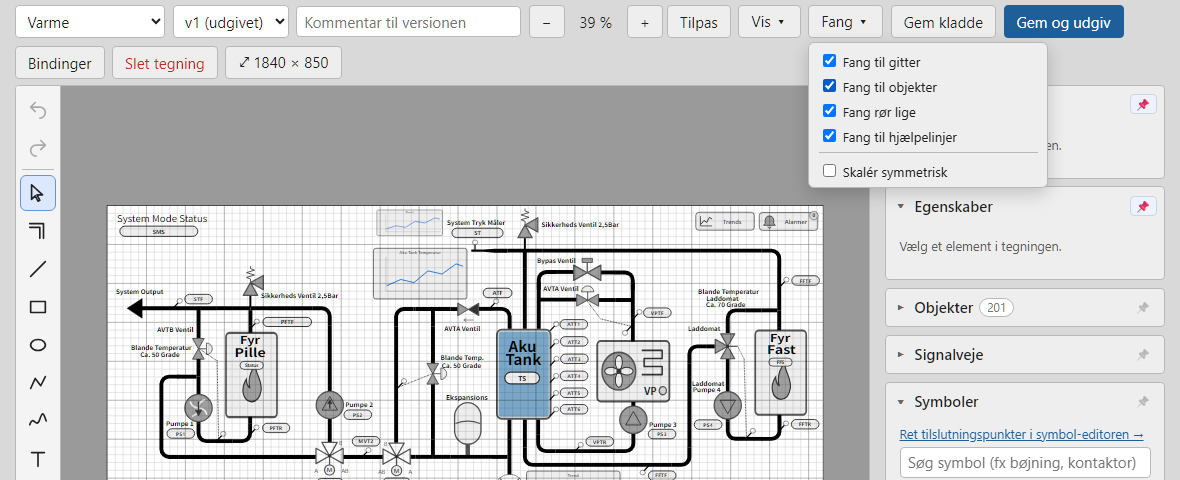
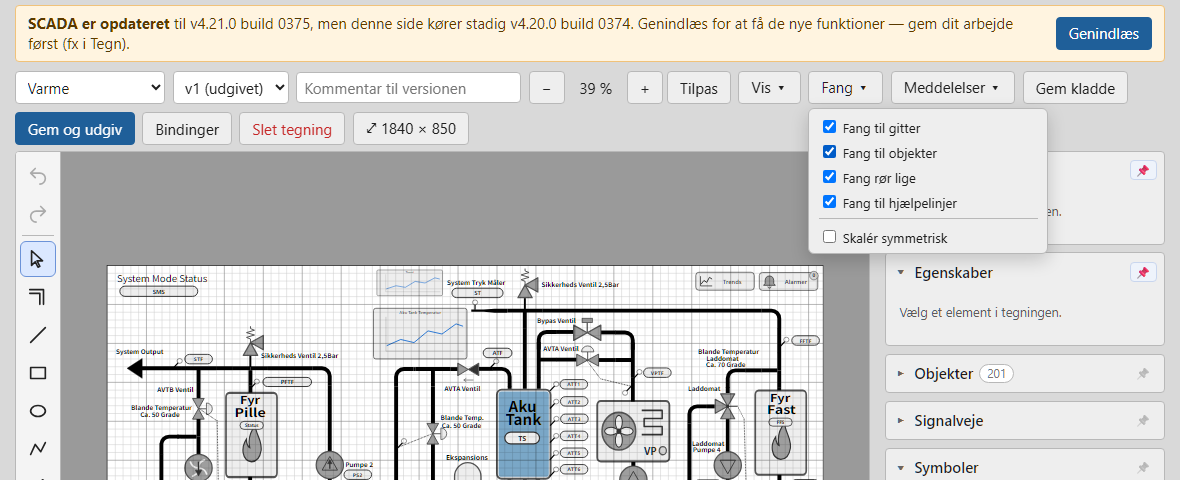
v4.21.0-b0375: Tegn — systemets meddelelser i en boks (Meddelelser i øverste linje) i stedet for gul bjælke

diff --git a/frontend/src/pages/DrawEditor.svelte b/frontend/src/pages/DrawEditor.svelte
@@ -1,5 +1,5 @@
 <script lang="ts">
-  import { onDestroy, onMount } from 'svelte';
+  import { onDestroy, onMount, untrack } from 'svelte';
   import { ask as askUser, askText } from '../lib/ask';
   import { suggestName } from '../lib/draw/naming';
   import { del, get, patch, post, put } from '../lib/api';
@@ -997,6 +997,30 @@
 
   const single = $derived(selection.length === 1 ? selection[0] : null);
   const isActive = $derived(current !== null && loadedVersion === current.active_version);
+  // Meddelelser (v4.20.1): systemets beskeder (før en gul bjælke over tegningen) samles her og vises i en boks, når man trykker på
+  // *Meddelelser* i den øverste linje — som alarmklokken i topmenuen. Nye beskeder gør knappen orange; advarsler åbner boksen.
+  interface Msg { id: number; at: number; text: string; extra: string[]; warn: boolean }
+  let messages = $state<Msg[]>([]);
+  let unread = $state(0);
+  let msgOpen = $state(false);
+  let msgSeq = 0;
+  $effect(() => {
+    const text = info;
+    if (!text) return;
+    untrack(() => {
+      const r = report;
+      const extra: string[] = [];
+      if (r && (Object.keys(r.removed_elements).length || Object.keys(r.removed_attributes).length)) extra.push(`Renset ved gem: ${entries(r.removed_elements)} ${entries(r.removed_attributes)}`);
+      if (r?.orphaned_bindings?.length) extra.push(`Bindinger uden element nu: ${r.orphaned_bindings.join(', ')}`);
+      const warn = !!r?.orphaned_symbols?.length;
+      if (warn) extra.push(`Symboler sat op med guiden, som ikke længere findes: ${r!.orphaned_symbols!.join(', ')} — flyt eller fjern dem under Bindinger`);
+      messages = [{ id: ++msgSeq, at: Date.now(), text, extra, warn }, ...messages].slice(0, 30);
+      unread++;
+      if (warn) msgOpen = true;
+      info = '';
+    });
+  });
+  const clock = (t: number) => new Date(t).toLocaleTimeString('da-DK', { hour: '2-digit', minute: '2-digit', second: '2-digit' });
   const entries = (o: Record<string, number>) => Object.entries(o).map(([k, v]) => `${k} ×${v}`).join(', ');
 </script>
 
@@ -1024,6 +1048,8 @@
   </span>
   <Menu label="Vis" title="Gitter, hjælpelinjer, navne og tjek af forbindelser">{@render viewMenu()}</Menu>
   <Menu label="Fang" title="Fang til gitter, objekter, rør og hjælpelinjer">{@render snapMenu()}</Menu>
+  <Menu label="Meddelelser" title="Systemets beskeder om tegningen (gem, rettelser, advarsler)" badge={unread + (dupNames.length ? 1 : 0)} hot={unread > 0 || dupNames.length > 0}
+        wide align="right" bind:open={msgOpen} onopen={() => (unread = 0)}>{@render messagesMenu()}</Menu>
   {#if checkConn && connSummary}
     {#if connSummary.open || connSummary.isolated}
       <span class="small" style="color:var(--warn)" title={connSummary.names.join(', ')}>{connSummary.open} åbne, {connSummary.isolated} uden forbindelse</span>
@@ -1112,6 +1138,24 @@
   </div>
 {/snippet}
 
+{#snippet messagesMenu()}
+  {#if dupNames.length}
+    <div class="msg warn">
+      Flere symboler har samme navn: {dupNames.map((d) => `"${d.name}" (${d.count})`).join(', ')} — navnene skal være unikke (de bruges fx i
+      Trends, ved kopiering af opsætning og i guiden). <button class="small" onclick={fixDuplicates} disabled={!ready}>Giv dem unikke navne</button>
+    </div>
+  {/if}
+  {#each messages as m (m.id)}
+    <div class="msg" class:warn={m.warn}>
+      <span class="small muted">{clock(m.at)}</span> {m.text}
+      {#each m.extra as x}<div class="small muted">{x}</div>{/each}
+    </div>
+  {:else}
+    {#if !dupNames.length}<span class="small muted">Ingen meddelelser endnu. Her kommer systemets beskeder, fx når tegningen er gemt eller en rettelse er udført.</span>{/if}
+  {/each}
+  {#if messages.length}<div class="mrow"><button class="small" onclick={() => (messages = [])}>Ryd meddelelser</button></div>{/if}
+{/snippet}
+
 {#snippet snapMenu()}
   <label class="opt"><input type="checkbox" bind:checked={guides.snapGrid} /> Fang til gitter</label>
   <label class="opt" title="Når du slipper et objekt, lægges det kant mod kant eller midte mod midte med nærmeste objekt, hvis det er tæt på"><input type="checkbox" bind:checked={guides.snapObjects} /> Fang til objekter</label>
@@ -1123,22 +1167,6 @@
 
 
 {#if error}<div class="error">{error}</div>{/if}
-{#if dupNames.length}
-  <div class="notice">
-    Flere symboler har samme navn: {dupNames.map((d) => `"${d.name}" (${d.count})`).join(', ')} — navnene skal være unikke (de bruges fx i
-    Trends, ved kopiering af opsætning og i guiden). <button class="small" onclick={fixDuplicates} disabled={!ready}>Giv dem unikke navne</button>
-  </div>
-{/if}
-{#if info}
-  <div class="notice">
-    {info}
-    {#if report && (Object.keys(report.removed_elements).length || Object.keys(report.removed_attributes).length)}
-      <br /><span class="small muted">Renset ved gem: {entries(report.removed_elements)} {entries(report.removed_attributes)}</span>
-    {/if}
-    {#if report?.orphaned_bindings?.length}<br />Bindinger uden element nu: {report.orphaned_bindings.join(', ')}{/if}{#if report?.orphaned_symbols?.length}<br /><strong>Symboler sat op med guiden, som ikke længere findes:</strong> {report.orphaned_symbols.join(', ')} — flyt eller fjern dem under Bindinger{/if}
-  </div>
-{/if}
-
 <div class="layout">
   <div class="frame" bind:this={frameBox}>
     <DrawCanvas height={editorHeight} dropType={SYMBOL_DRAG} ondropsymbol={(id, x, y) => ed && insert(id, ed.docPointAt(x, y))} ondropfiles={(files, x, y) => ed && insertSvgFiles(files, ed.docPointAt(x, y))} onready={(api) => attach(api as ScadaApi)} onupdate={() => inspectRev++} onzoom={(z) => (zoomLevel = z)} bind:this={canvasRef} bar={false}
@@ -1373,6 +1401,8 @@
 <style>
   .toolbar { margin-bottom: .35rem; }
   .comment { flex: 0 1 15rem; min-width: 8rem; }      /* en kommentar behøver ikke fylde linjen (v4.20.0) */
+  .msg { padding: .35rem .5rem; background: #fff8e1; border: 1px solid #e0b062; border-radius: 6px; overflow-wrap: anywhere; }
+  .msg.warn { background: #fdecea; border-color: #e57373; }
   .zoombar { display: inline-flex; align-items: center; gap: 4px; }
   .zoombar .zoom { min-width: 3.6em; text-align: center; font-variant-numeric: tabular-nums; }
   .toolbar { position: relative; z-index: 60; }

diff --git a/frontend/src/lib/draw/Menu.svelte b/frontend/src/lib/draw/Menu.svelte
@@ -2,8 +2,16 @@
   // En lille rullemenu (knap + panel) til værktøjslinjen: lukker ved klik udenfor og Esc. Bruges i Tegn (v4.20.0).
   import type { Snippet } from 'svelte';
 
-  let { label, title = '', children }: { label: string; title?: string; children: Snippet } = $props();
-  let open = $state(false);
+  let { label, title = '', badge = '', hot = false, wide = false, align = 'left', open = $bindable(false), onopen, children }: {
+    label: string; title?: string;
+    badge?: string | number;                 // et tal ved siden af navnet (fx antal nye meddelelser)
+    hot?: boolean;                           // fremhæv knappen (fx ulæste meddelelser)
+    wide?: boolean;                          // bredere panel
+    align?: 'left' | 'right';
+    open?: boolean;
+    onopen?: () => void;                     // kaldes, når menuen åbnes
+    children: Snippet;
+  } = $props();
   let root: HTMLDivElement;
 </script>
 
@@ -12,8 +20,8 @@
   onkeydown={(e) => { if (open && e.key === 'Escape') open = false; }} />
 
 <div class="dd" bind:this={root}>
-  <button onclick={() => (open = !open)} aria-expanded={open} aria-haspopup="true" {title}>{label} ▾</button>
-  {#if open}<div class="panel" role="group" aria-label={label}>{@render children()}</div>{/if}
+  <button class:hot onclick={() => { open = !open; if (open) onopen?.(); }} aria-expanded={open} aria-haspopup="true" {title}>{label}{#if badge !== '' && badge !== 0}<span class="badge">{badge}</span>{/if} ▾</button>
+  {#if open}<div class="panel" class:wide class:right={align === 'right'} role="group" aria-label={label}>{@render children()}</div>{/if}
 </div>
 
 <style>
@@ -24,6 +32,10 @@
     box-shadow: 0 6px 18px rgba(0, 0, 0, .18); padding: .5rem .65rem;
     display: flex; flex-direction: column; gap: .4rem; font-size: .88rem;
   }
+  .panel.wide { min-width: 24rem; max-width: min(44rem, 90vw); }
+  .panel.right { left: auto; right: 0; }
+  button.hot { background: #fff4e0; border-color: #ff8f00; }
+  .badge { margin-left: .35rem; background: #ff8f00; color: #fff; border-radius: 999px; padding: 0 .4rem; font-size: .72rem; font-weight: 600; }
   .panel :global(.mrow) { display: flex; align-items: center; flex-wrap: wrap; gap: .3rem .5rem; }
   .panel :global(.mhead) { font-size: .72rem; text-transform: uppercase; letter-spacing: .04em; color: var(--muted, #666); margin-top: .2rem; }
   .panel :global(.mrule) { border: 0; border-top: 1px solid var(--line); margin: .1rem 0; }

diff --git a/FEATURES.md b/FEATURES.md
@@ -5,6 +5,7 @@ Status: `planned` | `in-progress` | `done`
 
 Faseplan og detaljer: [docs/RESEARCH_OG_DESIGN.md](docs/RESEARCH_OG_DESIGN.md#4-faseplan).
 
+- [x] done v4.21.0 — **Tegn: meddelelser i en boks** (ønske fra Jan 2026-11-10). Systemets gule beskeder over tegningen (gemt, rettet, renset ved gem, advarsler) er flyttet ud i en boks, der åbner ved tryk på *Meddelelser* i den øverste linje — som alarmklokken i topmenuen. Nye beskeder giver et orange tal; advarsler åbner boksen.
 - [x] done v4.20.0 — **Tegn: samlet værktøjslinje** (ønske fra Jan 2026-11-10). Zoom og tegnehjælp flyttet op i den øverste linje; afkrydsningerne er samlet i menuerne *Vis* (gitter, hjælpelinjer, navne, tjek forbindelser) og *Fang*; kommentarfeltet er cirka en fjerdedel så bredt. Tegnefladen får linjens plads.
 - [x] done v4.19.0 — **Tegn: ret brudte forbindelser** (ønske fra Jan 2026-11-10). Knappen *Ret N forbindelser* ved *Tjek forbindelser* flytter rør-ender, der ligger klods op ad en anden ende eller et tilslutningspunkt (8–25 enheder), så de sidder sammen: tegnede rør lægges om og sættes fast; lige rør-symboler forlænges/forkortes i deres egen retning. Symboler flyttes aldrig; ét fortryd-trin.
 - [x] done v4.18.0 — **Tegn: tjek forbindelser** (ønske fra Jan 2026-11-10). Til/fra i værktøjslinjen: alle symboler og rør markeres i tegningen — grønt, hvis alle deres tilslutningspunkter sidder fast i noget; rødt med røde prikker ved de åbne ender, hvis ikke (og *isoleret*, hvis intet sidder fast). Samme forbindelsesregler som signalvejene. Kun visning i Tegn.

diff --git a/frontend/src/manual/07-tegn.md b/frontend/src/manual/07-tegn.md
@@ -7,6 +7,7 @@
 ## Skærmen
 
 - **Øverst**: vælg tegning og version, skriv en kommentar til versionen, **zoom** (−, +, **Tilpas**), menuerne **Vis** (gitter, hjælpelinjer, navne i tegningen, tjek af forbindelser) og **Fang** (fang til gitter, objekter, rør og hjælpelinjer, skalér symmetrisk), og knapperne **Gem kladde**, **Gem og udgiv**, **Bindinger**, **Slet tegning** og tegningens **størrelse**.
+- **Meddelelser**: systemets beskeder om tegningen (fx at den er gemt og udgivet, at der er renset noget ved gem, eller en advarsel) samles i en boks, der åbner, når du trykker på knappen — som alarmklokken i topmenuen. Et **orange tal** viser, hvor mange nye der er; en **advarsel** åbner boksen af sig selv. Dublerede symbolnavne står øverst i boksen med en knap, der giver dem unikke navne. **Ryd meddelelser** tømmer listen.
 - **Værktøjslinjen til venstre**: **Fortryd** og **Gentag** øverst, derefter værktøjerne **Vælg** (V), **Forbindelse** (O), **Linje** (L), **Rektangel** (R), **Ellipse** (E), **Sti** (P), **Frihånd** (F), **Tekst** (T), **Polygon** (Y), **Stjerne** (S), **Regulær polygon** (N), **Bue** (B) og **Billede**. Bogstavet er genvejstasten.
 - **Tegnefladen** i midten. **Ctrl + musehjul** zoomer, og **mellemrum** eller **midterknappen** + træk flytter udsnittet.
 - **Linjen i bunden** forklarer, hvordan det valgte værktøj bruges (fx *Rektangel: træk for at tegne · Shift = kvadrat · Esc = tilbage til Vælg*).

diff --git a/CHANGELOG.md b/CHANGELOG.md
@@ -4,6 +4,12 @@ Nyeste øverst. Format: `## [version build NNNN] — YYYY-MM-DD — beskrivelse`
 
 ---
 
+## [4.21.0 build 0375] — 2026-11-10 — Tegn: meddelelser i en boks
+
+- `pages/DrawEditor.svelte`: de gule bjælker over tegningen (`info` og dublerede navne) er fjernet. Hver ny `info`-besked lægges i en liste (tid, tekst, evt. "Renset ved gem" / "Bindinger uden element" / advarsel om symboler, der ikke findes), og knappen **Meddelelser** i den øverste linje viser antallet af nye (orange) og åbner en boks med listen (nyeste øverst, *Ryd meddelelser*). En advarsel (symboler sat op med guiden, som ikke findes) åbner boksen af sig selv. Dublerede symbolnavne står øverst i boksen med knappen *Giv dem unikke navne*. Højst 30 meddelelser.
+- `lib/draw/Menu.svelte`: `badge`, `hot`, `wide`, `align`, bindbar `open` og `onopen`.
+- Manual (kap. 07) og skærmbilleder (`tegn`, `tegn-gitter`). Set i browseren: ingen gul bjælke, tal på knappen, boksen åbner/lukker, tallet nulstilles ved åbning.
+
 ## [4.20.0 build 0374] — 2026-11-10 — Tegn: samlet værktøjslinje
 
 - `lib/draw/Menu.svelte` (ny): lille rullemenu (knap + panel; lukker ved klik udenfor og Esc).

diff --git a/RELEASE_NOTES.md b/RELEASE_NOTES.md
@@ -2,6 +2,10 @@
 
 ---
 
+## v4.21.0 — 2026-11-10 — Meddelelser i en boks i Tegn
+
+- Systemets beskeder i Tegn (fx "Version 157 er gemt og udgivet") står ikke længere i en gul bjælke over tegningen, men i en boks, der åbner, når du trykker på **Meddelelser** i den øverste linje. Nye beskeder vises som et orange tal; advarsler åbner boksen af sig selv. Tegnefladen får bjælkens plads.
+
 ## v4.20.0 — 2026-11-10 — Samlet værktøjslinje i Tegn
 
 - Zoom og tegnehjælp ligger nu i den øverste linje, og afkrydsningerne er samlet i to menuer: **Vis** (gitter, hjælpelinjer, navne, tjek forbindelser) og **Fang**. Kommentarfeltet er blevet smallere, så alt er på én linje, og tegnefladen er højere.
